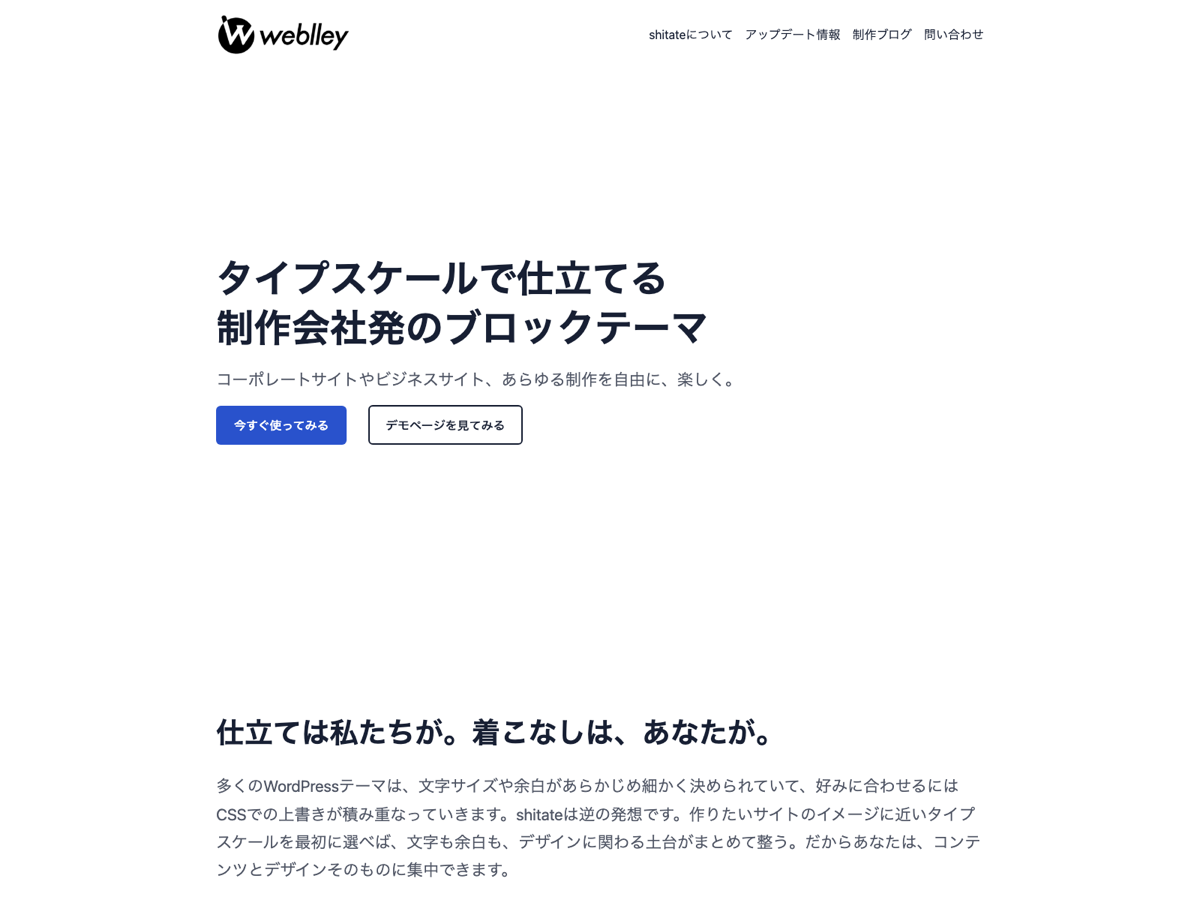
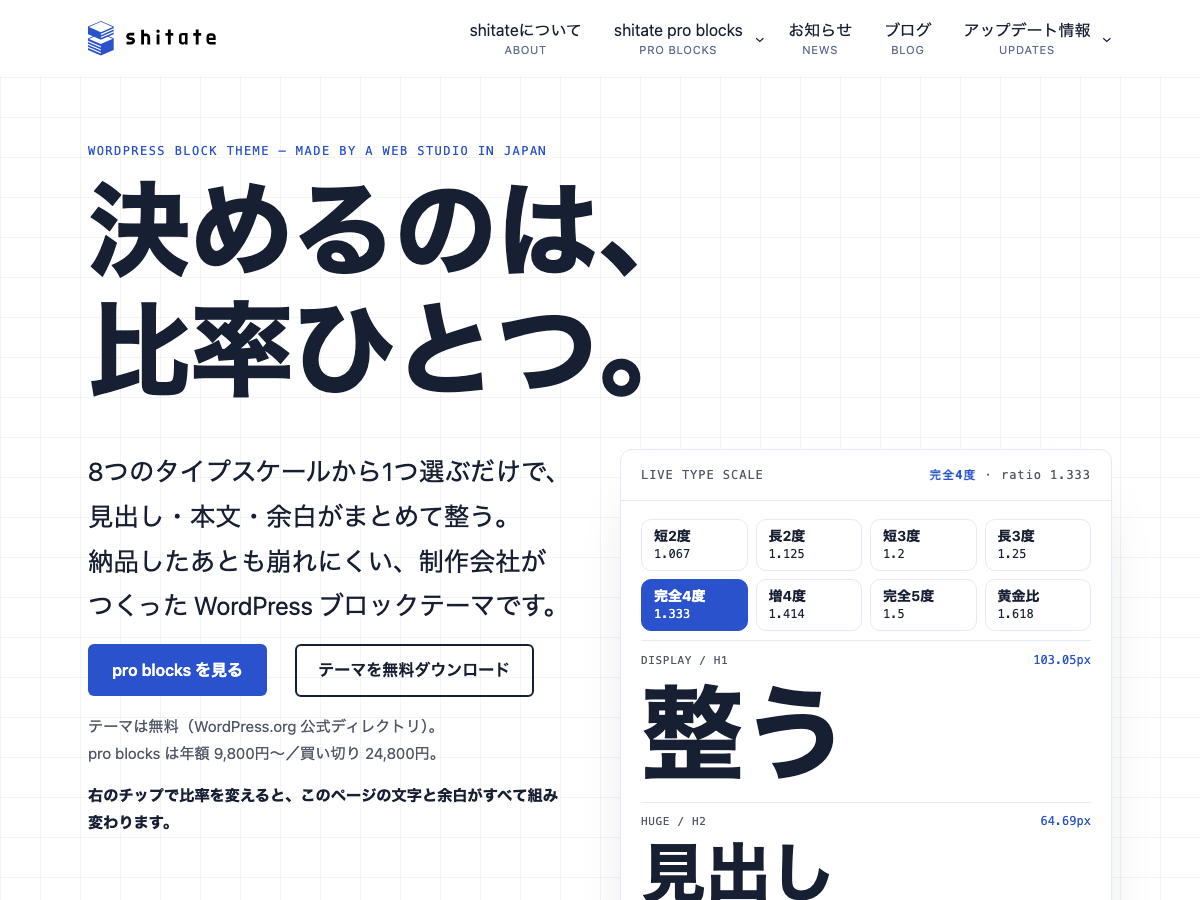
Refresh screenshot.png from the renewed official top page
1200x900, captured with headless Chrome (DevTools protocol); the floating
language switcher, type-scale button and campaign bar are hidden.

diff --git a/CHANGELOG.md b/CHANGELOG.md
@@ -6,6 +6,10 @@ Shitate テーマの変更履歴。書式は [Keep a Changelog](https://keepacha
 
 ## [Unreleased]
 
+### Changed
+
+- `screenshot.png` を公式サイトのリニューアル後のトップページで撮り直し（1200×900。フローティングの言語切替・タイプスケールボタンとキャンペーン帯は非表示で撮影）
+
 ## [1.0.5] - 2026-10-21
 
 ### Upgrade notes（1.0.5 で挙動が変わる点）
